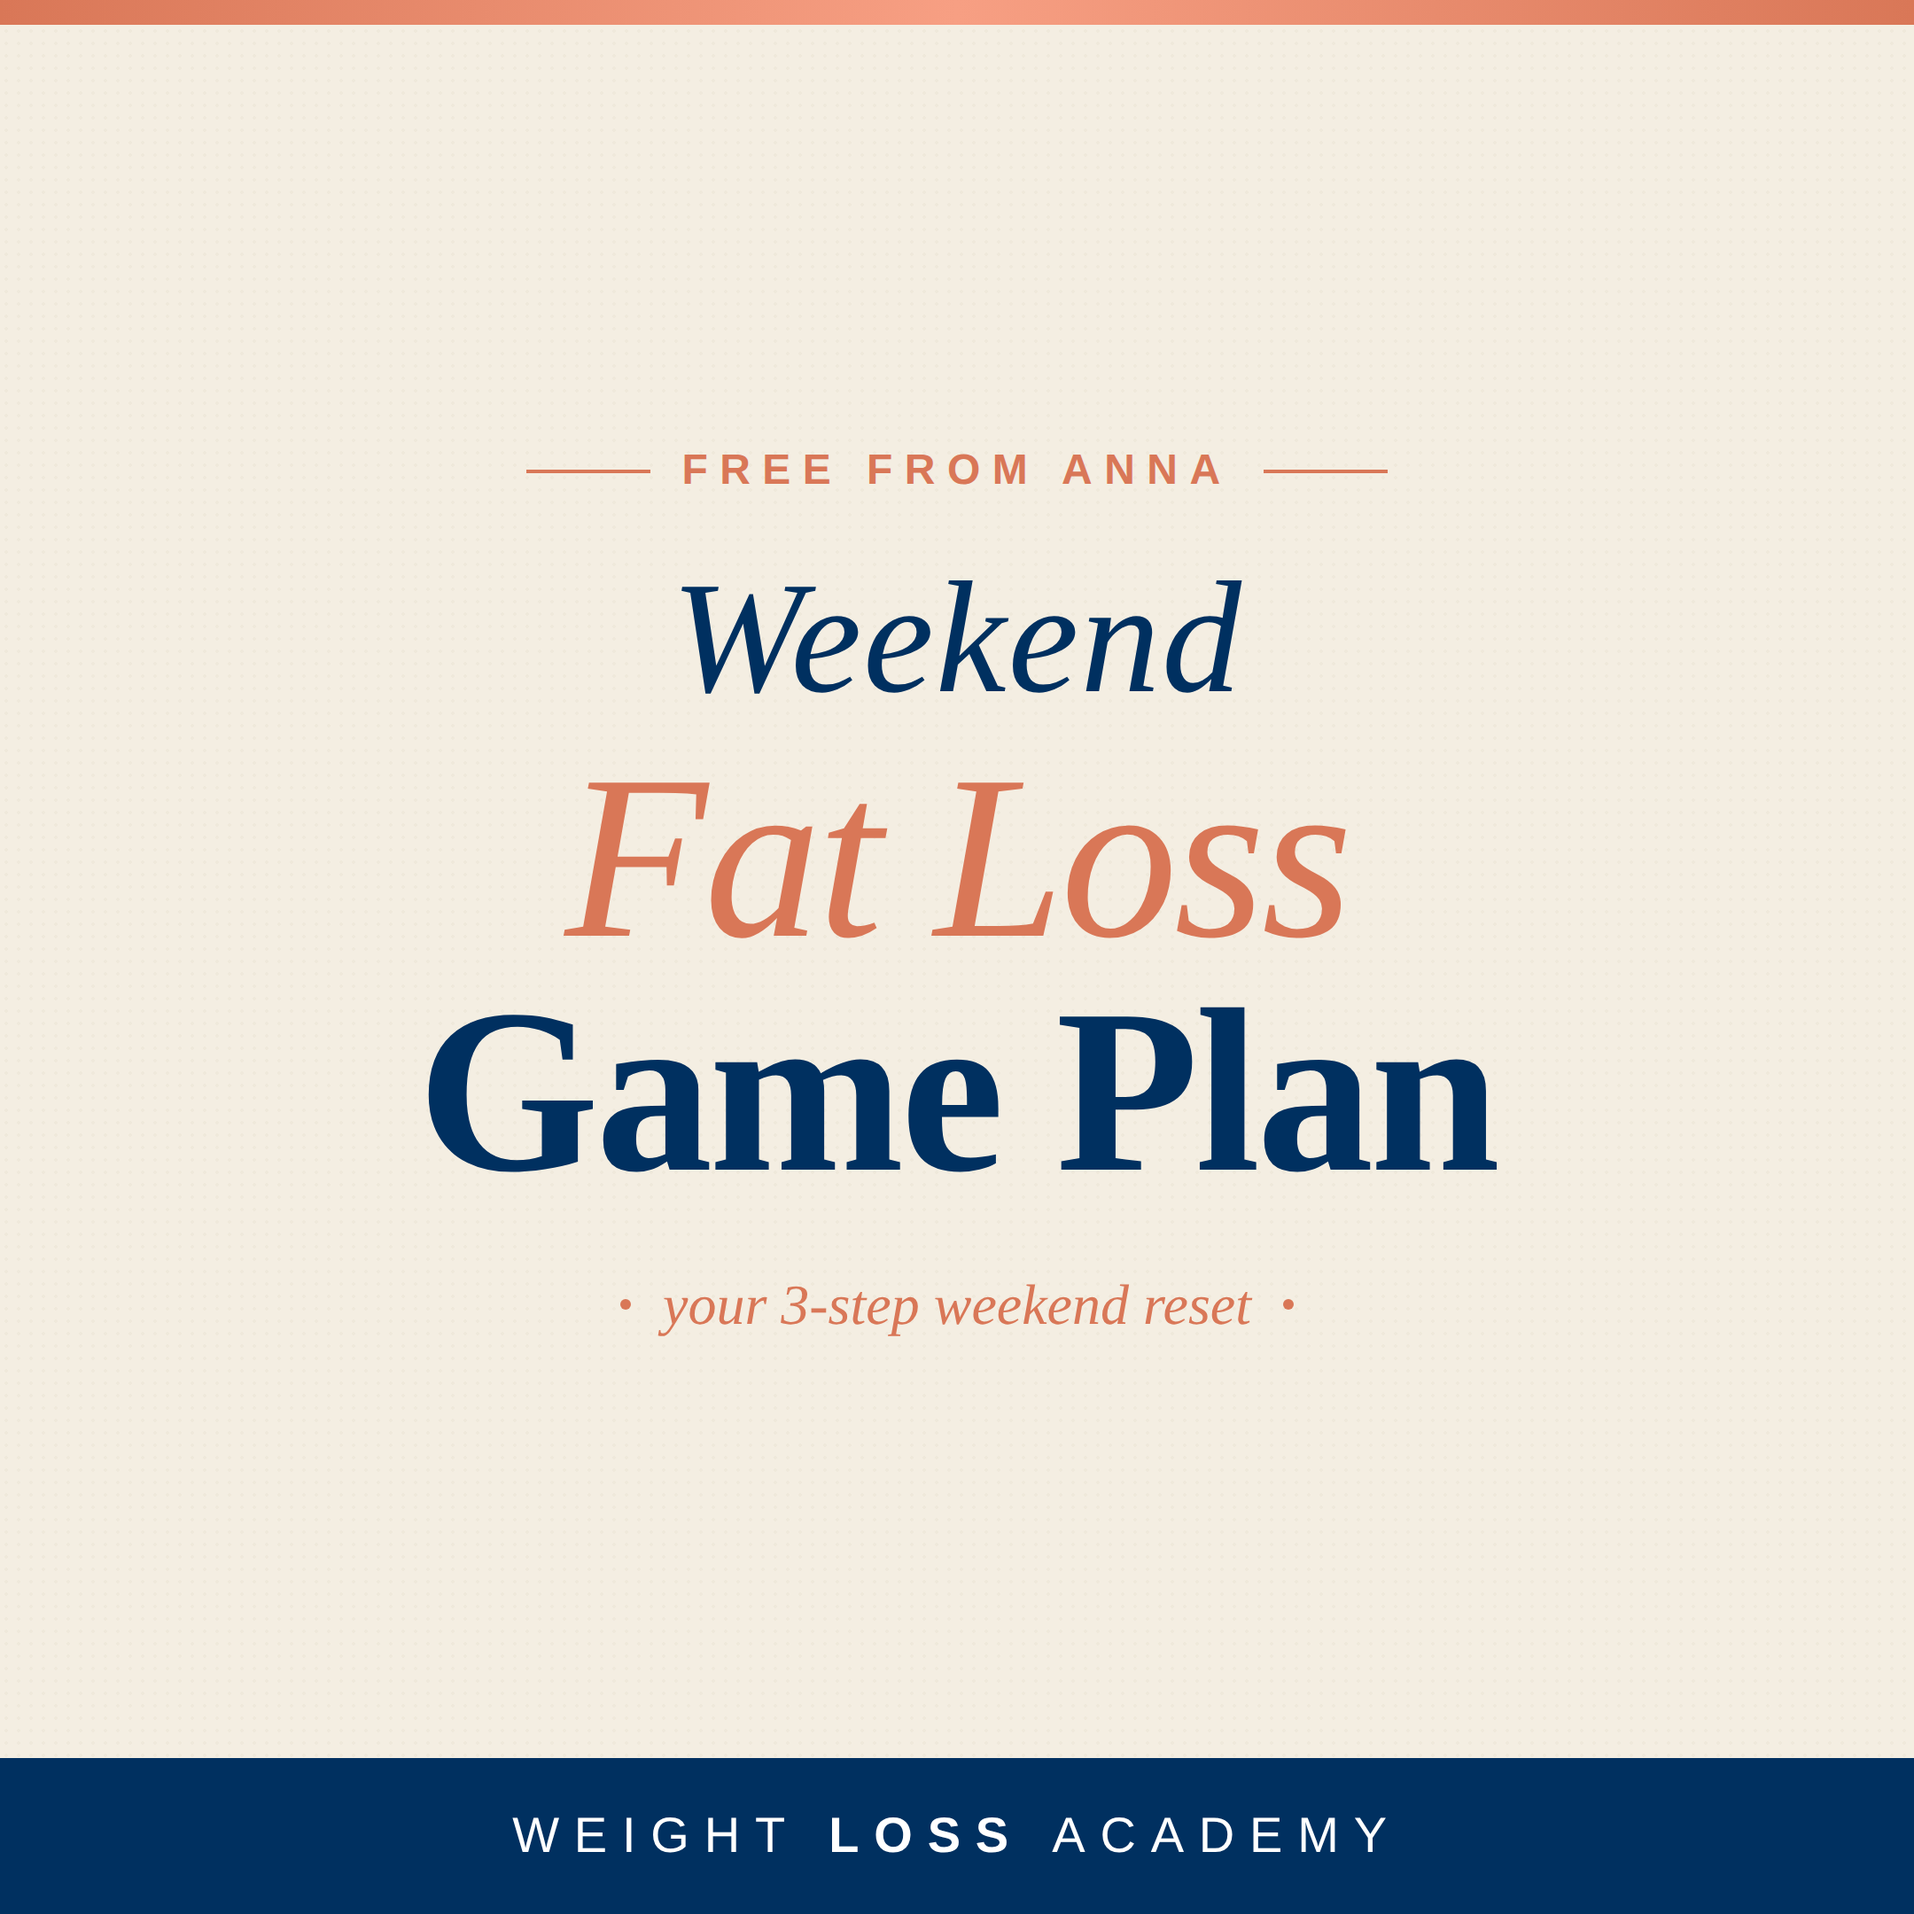
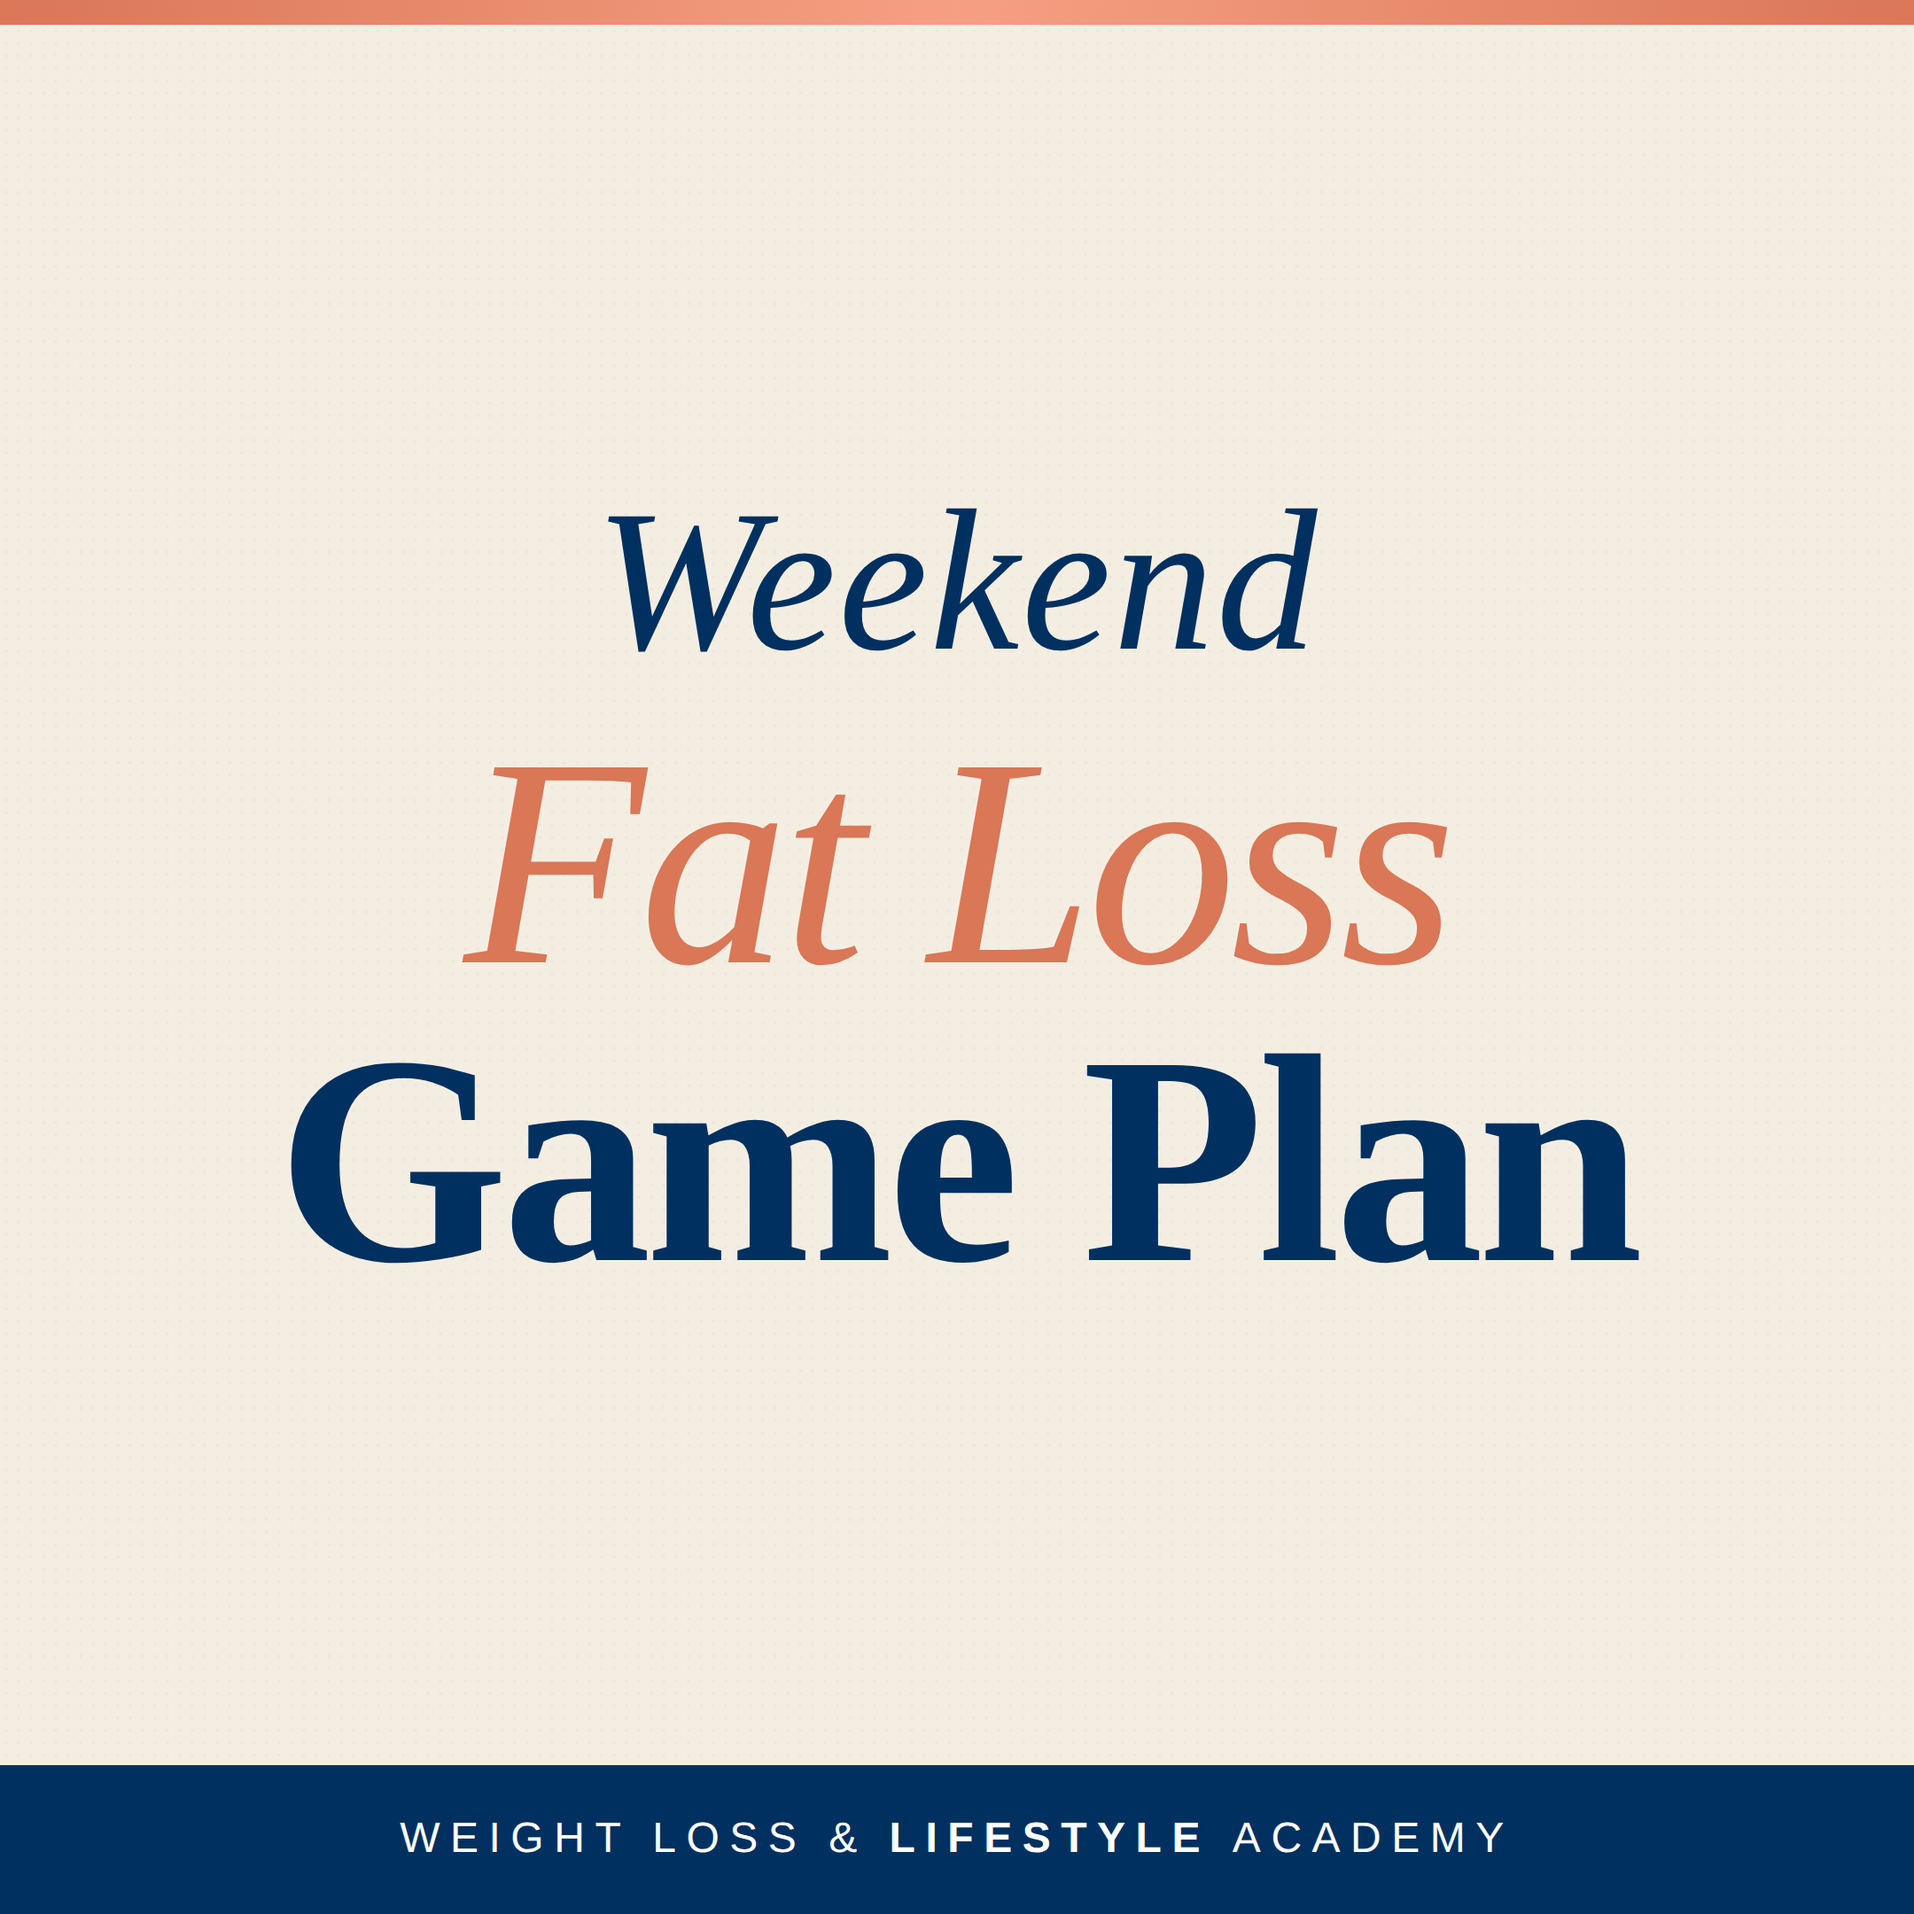
weekend-game-plan: drop 'Free From Anna' eyebrow + '3-step weekend reset' sub line; scale headline up (top word 90 -> 114, main 132 -> 168); bottom bar reads 'WEIGHT LOSS & LIFESTYLE ACADEMY' (Lifestyle bold) (#152)

diff --git a/weekend-game-plan/index.html b/weekend-game-plan/index.html
@@ -86,9 +86,9 @@
     font-family: 'Libre Baskerville', serif;
     font-weight: 700;
     color: var(--navy-deep);
-    font-size: 132px;
+    font-size: 168px;
     line-height: 1.0;
-    letter-spacing: -0.015em;
+    letter-spacing: -0.02em;
     margin: 0;
   }
   .title em {
@@ -100,9 +100,9 @@
     display: block;
     font-style: italic;
     font-weight: 500;
-    font-size: 90px;
+    font-size: 114px;
     color: var(--navy-deep);
-    margin-bottom: 12px;
+    margin-bottom: 18px;
     letter-spacing: 0.01em;
   }
 
@@ -128,9 +128,9 @@
     padding: 28px 20px;
     font-family: "Alegreya Sans", sans-serif;
     font-weight: 800;
-    letter-spacing: 0.3em;
+    letter-spacing: 0.24em;
     text-transform: uppercase;
-    font-size: 28px;
+    font-size: 24px;
   }
   .bottom-bar .light { font-weight: 400; }
 </style>
@@ -143,18 +143,14 @@
 
   <div class="body">
 
-    <div class="eyebrow">Free From Anna</div>
-
     <h1 class="title">
       <span class="top-word">Weekend</span>
       <em>Fat Loss</em><br/>Game Plan
     </h1>
 
-    <p class="sub"><span class="dot"></span>your 3-step weekend reset<span class="dot"></span></p>
-
   </div>
 
-  <div class="bottom-bar"><span class="light">Weight</span> Loss <span class="light">Academy</span></div>
+  <div class="bottom-bar"><span class="light">Weight Loss &amp;</span> Lifestyle <span class="light">Academy</span></div>
 
 </div>
 
